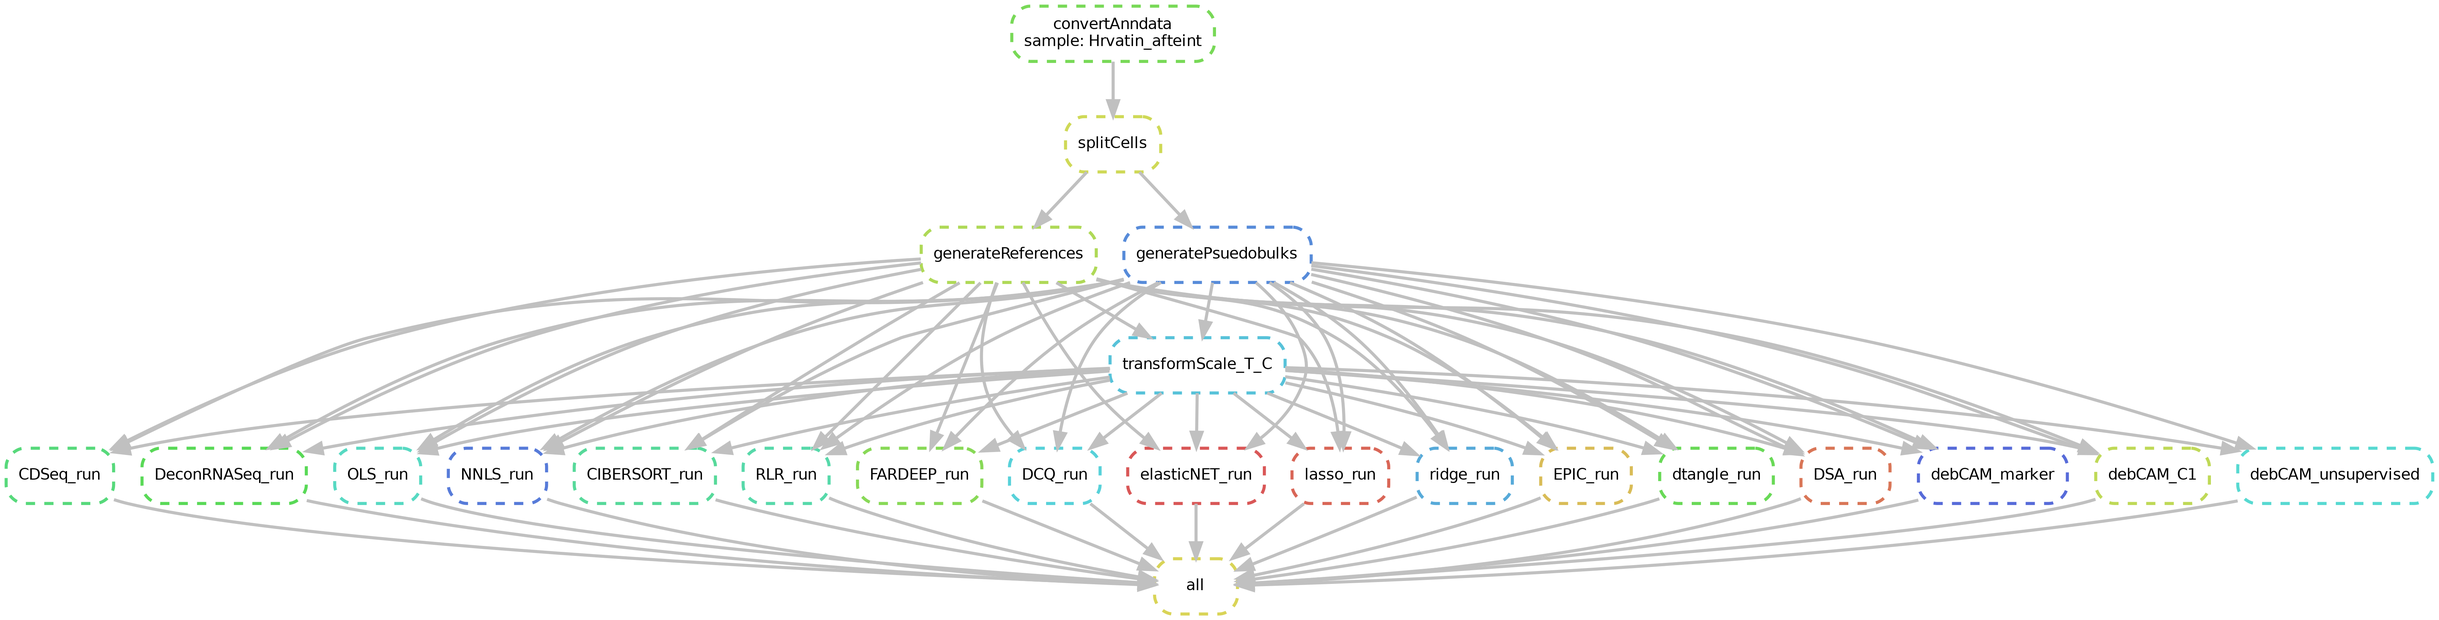
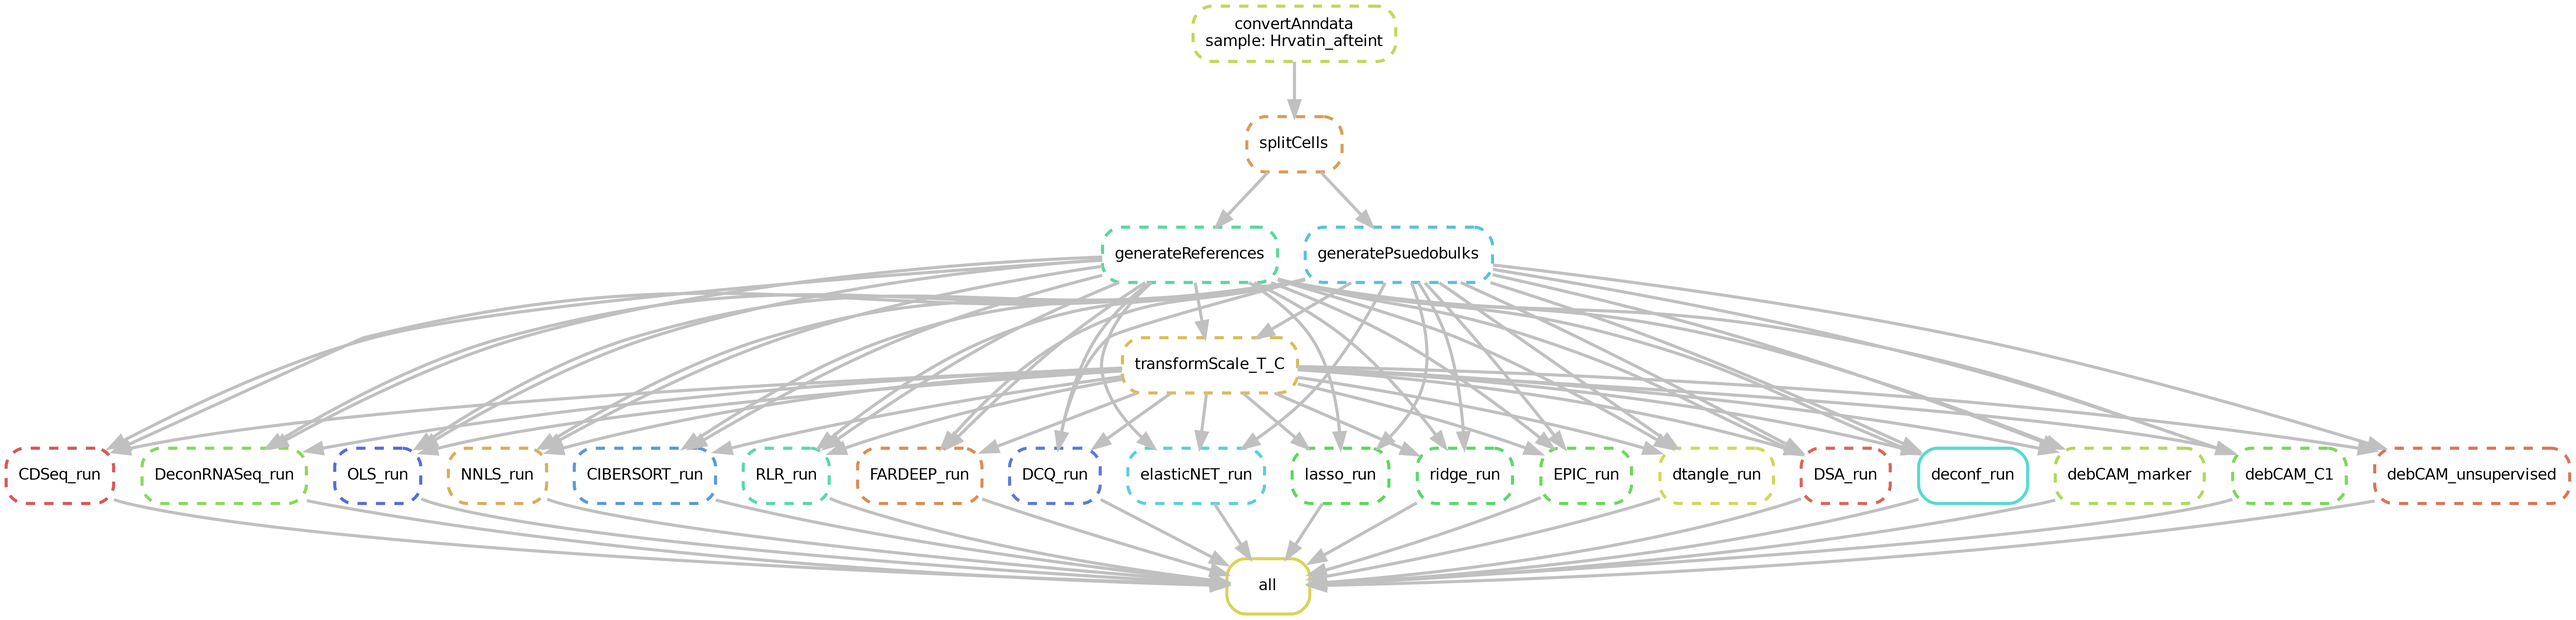
New method: implemented deconf

diff --git a/README.md b/README.md
@@ -45,7 +45,7 @@
 	"ssKL"-  PART OF CELLMIX, SKIPPED FOR NOW
 	"ssFrobenius" - PART OF CELLMIX, SKIPPED FOR NOW
 	"dtangle"- DONE
-	"deconf"
+	"deconf" - DONE
 	"proportionsInAdmixture"
 	"svmdecon"
 	"EpiDISH"
